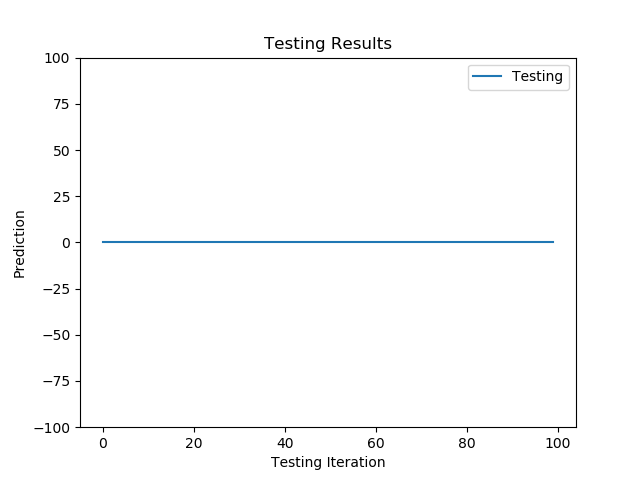
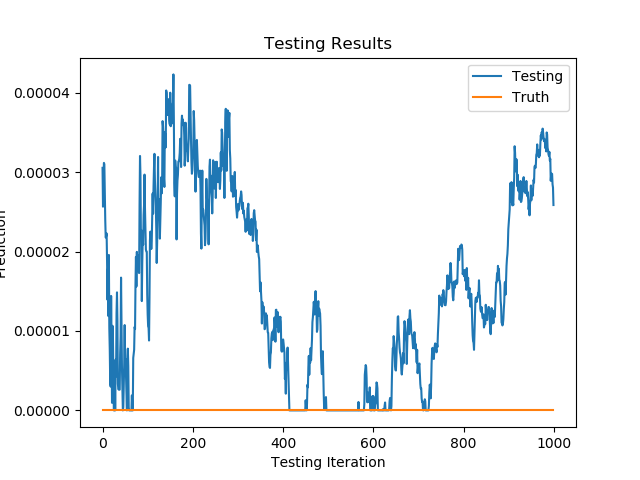
Updates epochs for 1 million rows

diff --git a/data_feeder.py b/data_feeder.py
@@ -6,7 +6,7 @@ import pandas as pd
 # chunk_size: the number of lines to read from the file at once.
 
 class InputChunkSlider():
-    def __init__(self, file_name, chunk_size, shuffle, offset, batch_size=1000, crop=10000, header=0, ram_threshold=5 * 10 ** 5):
+    def __init__(self, file_name, chunk_size, shuffle, offset, batch_size=1000, crop=100000, header=0, ram_threshold=5 * 10 ** 5):
         self.file_name = file_name
         self.batch_size = 1000
         self.chunk_size = 10000
@@ -26,6 +26,7 @@ class InputChunkSlider():
         # Display a warning if there are too many rows to fit in the designated amount RAM.
         if (self.total_size > self.ram_threshold):
             print("There is too much data to load into memory, so it will be loaded in chunks. Please note that this may result in decreased training times.")
+
 
     def load_dataset(self):
         if self.total_size == 0:
@@ -71,7 +72,7 @@ class InputChunkSlider():
                 indicies = np.arange(maximum_batch_size)
                 if self.shuffle:
                     np.random.shuffle(indicies)
-
+            while True:
                 for start_index in range(0, maximum_batch_size, self.batch_size):
                     splice = indicies[start_index : start_index + self.batch_size]
                     input_data = np.array([inputs[index : index + 2 * self.offset + 1] for index in splice])

diff --git a/seq2point_train.py b/seq2point_train.py
@@ -15,10 +15,10 @@ training_directory = "./kettle/kettle_training_.csv"
 validation_directory = "./kettle/kettle_validation_.csv"
 window_offset = int((0.5 * 599 ) - 1)
 
-training_chunker = InputChunkSlider(file_name=training_directory, chunk_size=SIZE_OF_CHUNK, batch_size=1000, crop=10000,shuffle=True, offset=window_offset, header=0, ram_threshold=5*10**5)
+training_chunker = InputChunkSlider(file_name=training_directory, chunk_size=SIZE_OF_CHUNK, batch_size=1000,shuffle=True, offset=window_offset, header=0, ram_threshold=5*10**5)
 model = create_model()
 model.compile(Adam(learning_rate=0.001, beta_1=0.9, beta_2=0.999), loss="mean_squared_error", metrics=["mae"])
-training_history = model.fit_generator(training_chunker.load_dataset(), steps_per_epoch=1, epochs=4, verbose=2, callbacks=None)
+training_history = model.fit_generator(training_chunker.load_dataset(), steps_per_epoch=1000, epochs=5, verbose=2, callbacks=None)
 
 
 

diff --git a/seq2point_test.py b/seq2point_test.py
@@ -29,7 +29,7 @@ test_input, test_target = load_dataset(TEST_FILE_NAME, crop)
 
 model = create_model()
 
-test_generator = TestingChunkSlider(number_of_windows=100, offset=offset)
+test_generator = TestingChunkSlider(number_of_windows=1000, offset=offset)
 
 testing_history = model.predict_generator(test_generator.load_data(test_input), steps=1)
 
@@ -41,7 +41,7 @@ plt.plot(test_target[0 : testing_history.size], label="Truth")
 plt.title('Testing Results')
 plt.ylabel('Prediction')
 plt.xlabel('Testing Iteration')
-plt.ylim(-100, 100)
+# plt.ylim(-100, 100)
 plt.legend()
 plt.savefig(fname="testing_results.png")
 plt.show()
